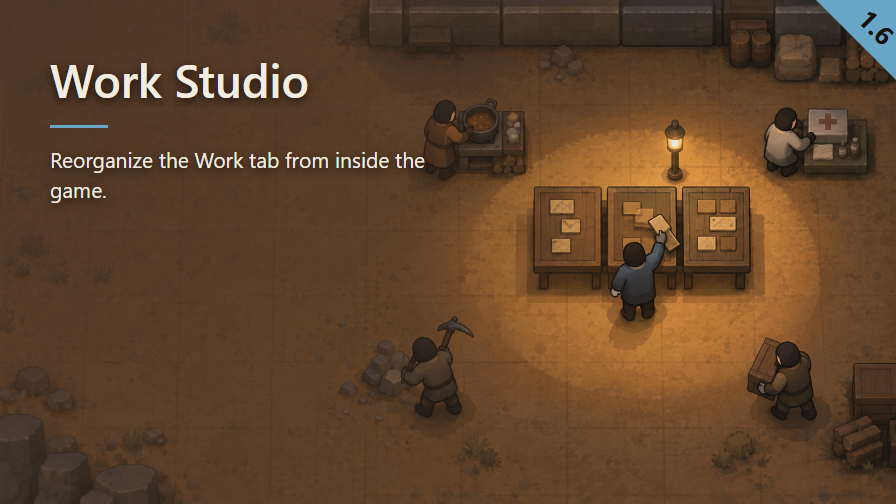
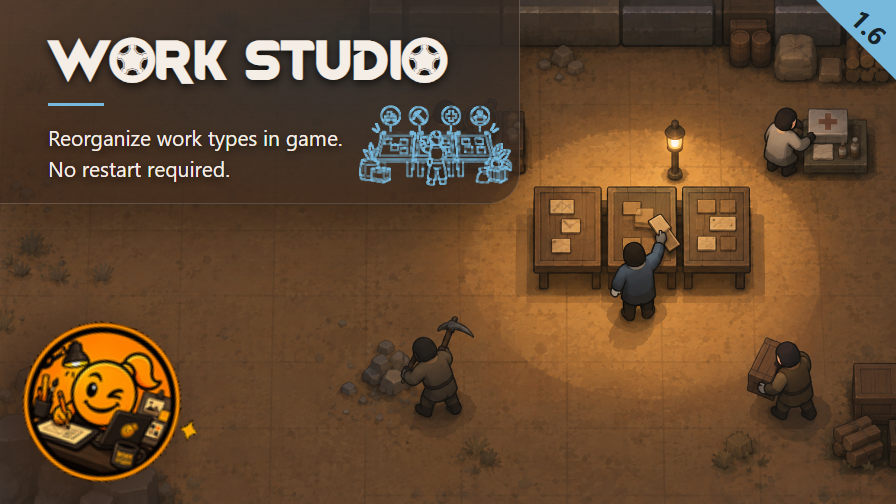
Gallery moves to Nelim's sanctuary (feature 14, wsl-deps.sanctuary.map); ModIcon and Preview regenerated

diff --git a/PUBLICATION.md b/PUBLICATION.md
@@ -77,9 +77,11 @@ queued behind thirty other sessions' tickets.
 **The rules**, decided with the owner on 2026-09-24. They apply to every Workshop image of this mod and are the
 only place they are written; `14-publication-shots.feature` points here.
 
-1. **The scene is the owner's showcase colony**, `Nelim-Zen-Meadow-Studio`, never the test fixture. It is the fixture
-   `nelim-zen-meadow-studio` of `PickleTools/ScreenshotStudio`, only present in a pass that stages that companion:
-   `wsl-deps.studio.map`. Run it in English, the page is English.
+1. **The scene is Nelim's sanctuary**, the fixture `Nelims-tribe` shared by every mod's gallery (`PickleTools/docs/GALERIE.md`,
+   `PickleTools/docs/SANCTUAIRE-LIEUX.md`), never the test fixture. It is only present in a pass that stages
+   `PickleTools/ScreenshotStudio`: `wsl-deps.sanctuary.map`. Run it in English, the page is English. Choose the place by
+   reading every named one: a game window goes on `exhibition-zone`, a main tab on a place that sells the game
+   (`water-garden`). Before 2026-10-06 the scene was `nelim-zen-meadow-studio` (`wsl-deps.studio.map`, now removed).
 2. **Two kinds of image, two treatments:**
    - **An option window** (this mod's own windows: the editor, the settings): the game's screenshot mode is on
      (HUD and Pickle panels hidden) and the image is **cropped tight around the window**, its rectangle plus 16 px
